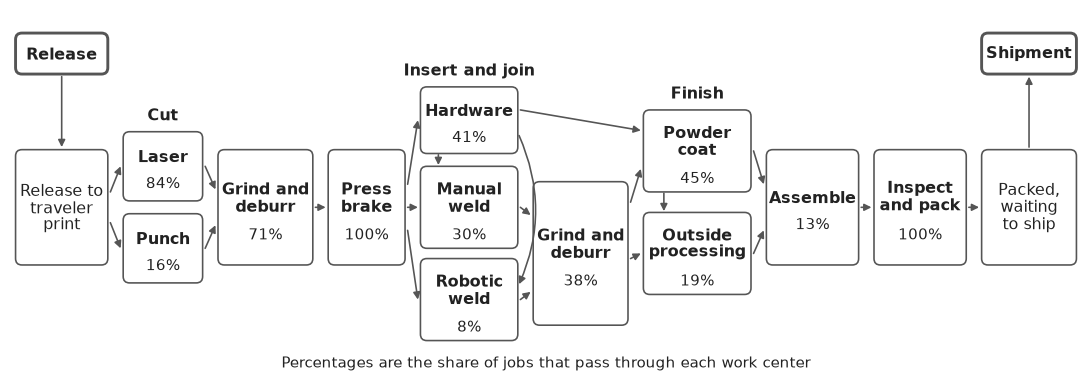
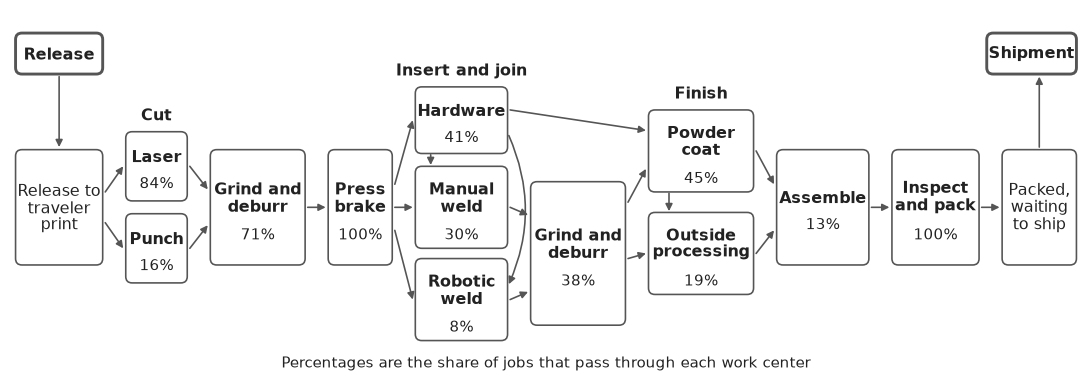
Flow report: job flow diagram boxes sized to their labels, with wider gaps for the arrows

diff --git a/docs/reports/lead_time_and_late_jobs.html b/docs/reports/lead_time_and_late_jobs.html
@@ -59,7 +59,7 @@ nav.toc a.sub { font-size: 12px; padding-left: 22px; }
 <main class="content"><h2 id='f1'>1. Flow and WIP</h2>
 
 <p>Every job follows the same general flow through the shop between its release onto the floor and its shipment to the customer. At any moment every job in WIP sits somewhere in this flow, and its lead time, the working days from release to shipment, is the time it takes to pass through it.</p>
-<div class='chart-title'>Job Flow, Release to Shipment</div><img alt="Job Flow, Release to Shipment" src="../figures/job_flow_diagram.png?v=ef1084f2">
+<div class='chart-title'>Job Flow, Release to Shipment</div><img alt="Job Flow, Release to Shipment" src="../figures/job_flow_diagram.png?v=ea3881c2">
 
 
 <p>In 2025, the shop carried an average of 238 WIP jobs against a throughput of about 19 shipped a day, so a job spent about 12 working days on the floor. 2025 WIP was skewed by the large Q1 backlog detailed below. WIP averaged 187 jobs over the past three years and peaks every December: 260 jobs in 2023, 466 in 2024 and 418 in 2025.</p>

diff --git a/analytics/lead_time/sections.py b/analytics/lead_time/sections.py
@@ -257,40 +257,40 @@ def fig_job_flow():
     def stage(label, x0, w, top):
         ax.text(x0 + w / 2, top + 6, label, ha="center", va="bottom", fontsize=NAME, color=TEXT, fontweight="bold")
 
-    y, x, gap = 142.0, 2.0, 12.0
-    box("print", "Release to" + NL + "traveler" + NL + "print", x, 72, y, 90, bold=False)
-    box("release", "Release", x, 72, 262, 32, edge=1.6)
-    x += 72 + gap
-    box("laser", "Laser", x, 62, y + 32, 54, FLOW["laser"])
-    box("punch", "Punch", x, 62, y - 32, 54, FLOW["punch"])
-    stage("Cut", x, 62, y + 59)
-    x += 62 + gap
+    y, x, gap = 142.0, 2.0, 18.0
+    box("print", "Release to" + NL + "traveler" + NL + "print", x, 68, y, 90, bold=False)
+    box("release", "Release", x, 68, 262, 32, edge=1.6)
+    x += 68 + gap
+    box("laser", "Laser", x, 48, y + 32, 54, FLOW["laser"])
+    box("punch", "Punch", x, 48, y - 32, 54, FLOW["punch"])
+    stage("Cut", x, 48, y + 59)
+    x += 48 + gap
     box("deburr", "Grind and" + NL + "deburr", x, 74, y, 90, FLOW["deburr"])
     x += 74 + gap
-    box("brake", "Press" + NL + "brake", x, 60, y, 90, FLOW["form"])
-    x += 60 + gap
-    box("hardware", "Hardware", x, 76, y + 68, 52, FLOW["hardware"])
-    box("weld", "Manual" + NL + "weld", x, 76, y, 64, FLOW["manual_weld"])
-    box("robot", "Robotic" + NL + "weld", x, 76, y - 72, 64, FLOW["robotic_weld"])
-    stage("Insert and join", x, 76, y + 94)
-    x += 76 + gap
+    box("brake", "Press" + NL + "brake", x, 50, y, 90, FLOW["form"])
+    x += 50 + gap
+    box("hardware", "Hardware", x, 72, y + 68, 52, FLOW["hardware"])
+    box("weld", "Manual" + NL + "weld", x, 72, y, 64, FLOW["manual_weld"])
+    box("robot", "Robotic" + NL + "weld", x, 72, y - 72, 64, FLOW["robotic_weld"])
+    stage("Insert and join", x, 72, y + 94)
+    x += 72 + gap
     box("grind", "Grind and" + NL + "deburr", x, 74, y - 36, 112, FLOW["grind_welds"])
     x += 74 + gap
-    box("powder", "Powder" + NL + "coat", x, 84, y + 44, 64, FLOW["powder"])
-    box("outside", "Outside" + NL + "processing", x, 84, y - 36, 64, FLOW["outside"])
-    stage("Finish", x, 84, y + 76)
-    x += 84 + gap
+    box("powder", "Powder" + NL + "coat", x, 82, y + 44, 64, FLOW["powder"])
+    box("outside", "Outside" + NL + "processing", x, 82, y - 36, 64, FLOW["outside"])
+    stage("Finish", x, 82, y + 76)
+    x += 82 + gap
     box("assembly", "Assemble", x, 72, y, 90, FLOW["assembly"])
     x += 72 + gap
-    box("inspect", "Inspect" + NL + "and pack", x, 72, y, 90, FLOW["inspect"])
-    x += 72 + gap
-    box("packed", "Packed," + NL + "waiting" + NL + "to ship", x, 74, y, 90, bold=False)
-    box("ship", "Shipment", x, 74, 262, 32, edge=1.6)
+    box("inspect", "Inspect" + NL + "and pack", x, 68, y, 90, FLOW["inspect"])
+    x += 68 + gap
+    box("packed", "Packed," + NL + "waiting" + NL + "to ship", x, 58, y, 90, bold=False)
+    box("ship", "Shipment", x + 58 - 70, 70, 262, 32, edge=1.6)
     L, R, Y = (lambda n: at[n][0] - 2), (lambda n: at[n][1] + 2), (lambda n: at[n][2])
     link = lambda a, b, dy=0.0, dz=0.0: go((R(a), Y(a) + dy), (L(b), Y(b) + dz))
     mid = lambda n: (at[n][0] + at[n][1]) / 2
     go((mid("release"), at["release"][2] - 18), (mid("print"), at["print"][2] + 47))
-    go((mid("packed"), at["packed"][2] + 47), (mid("ship"), at["ship"][2] - 18))
+    go((mid("packed"), at["packed"][2] + 47), (mid("packed"), at["ship"][2] - 18))
     link("print", "laser", 12)
     link("print", "punch", -12)
     link("laser", "deburr", 0, 14)
@@ -309,7 +309,7 @@ def fig_job_flow():
     link("assembly", "inspect")
     link("inspect", "packed")
     # inside a stage: hardware on to a weld, powder coat on to outside processing
-    hx = at["hardware"][0] + 14
+    hx = at["hardware"][0] + 12
     go((hx, at["hardware"][2] - 27), (hx, at["weld"][2] + 33))
     ax.annotate("", (R("robot") - 1, Y("robot") + 12), (R("hardware") - 1, Y("hardware") - 12), arrowprops=dict(arrow, connectionstyle="arc3,rad=-0.22"))
     px = at["powder"][0] + 16
